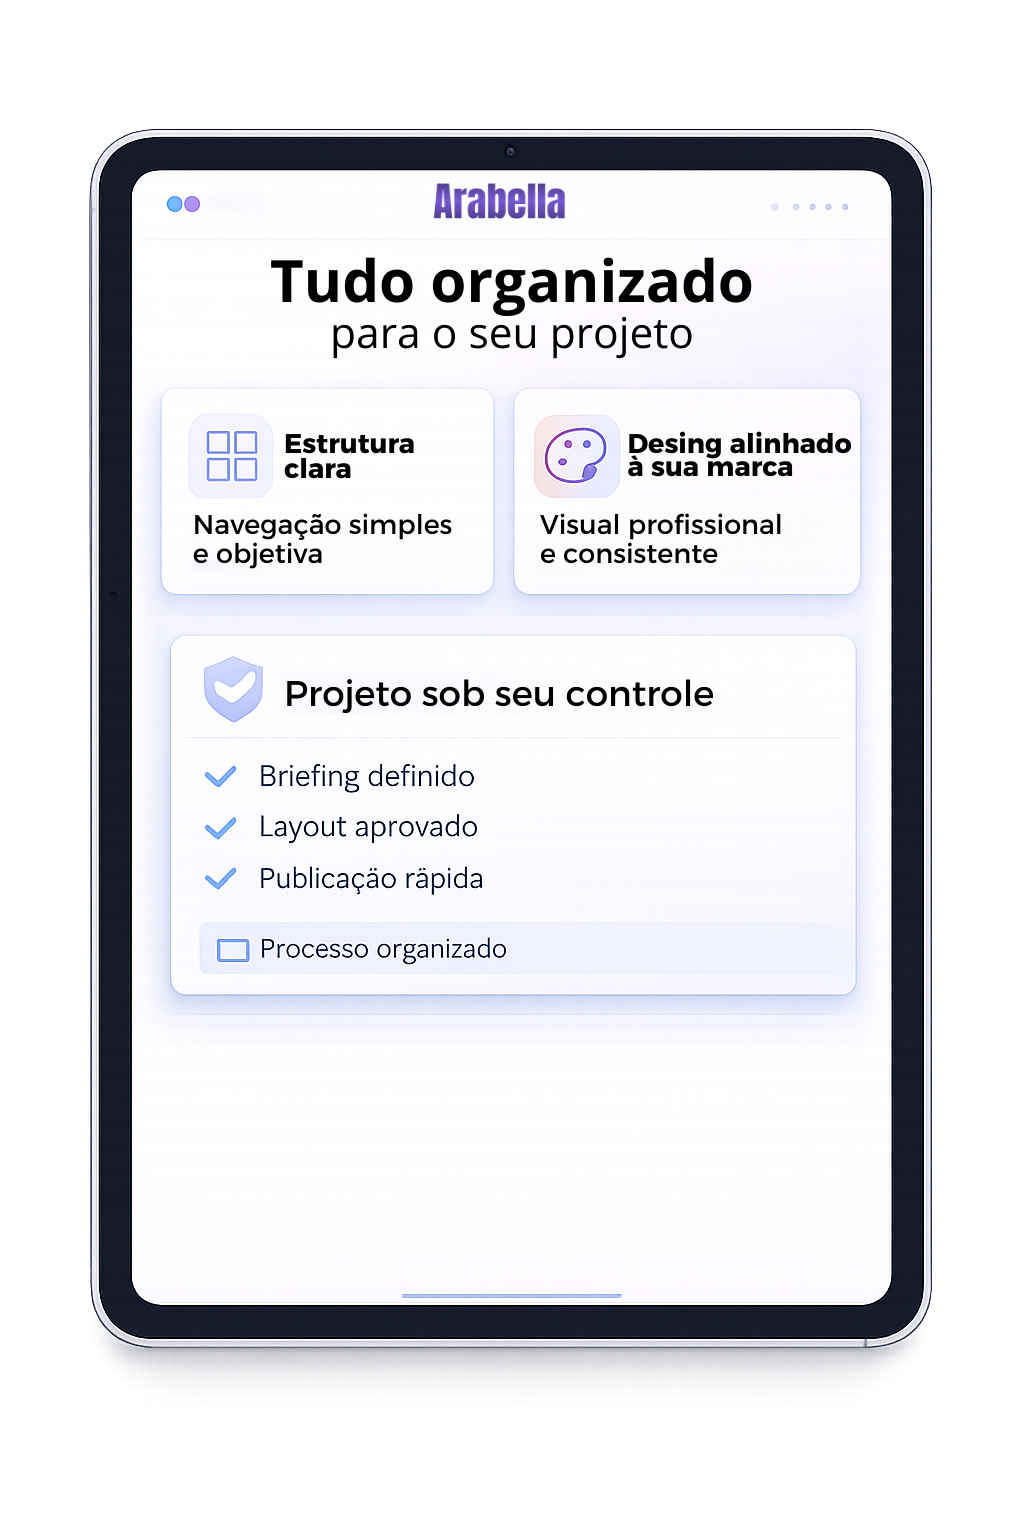
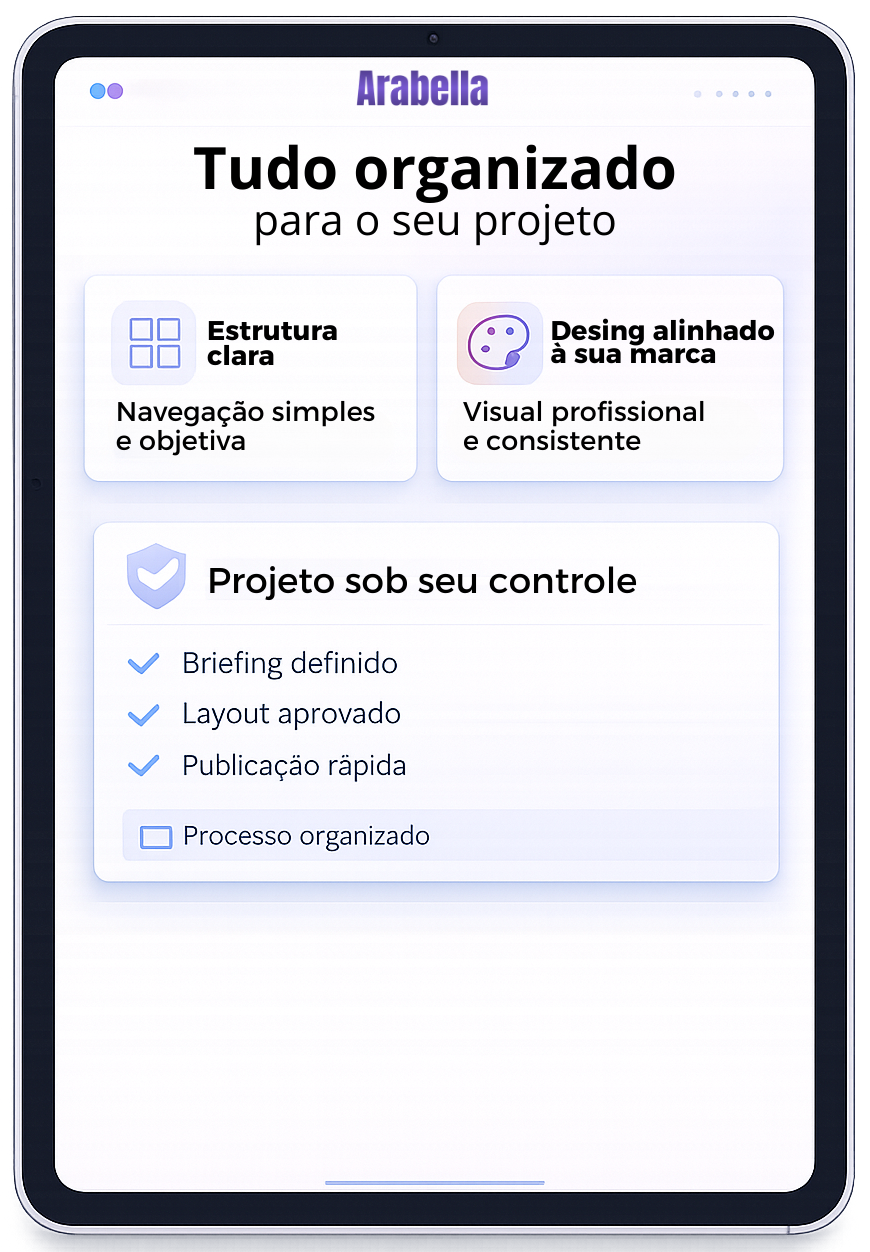
a

diff --git a/arabella/src/components/sections/ResponsiveEverywhereSection.tsx b/arabella/src/components/sections/ResponsiveEverywhereSection.tsx
@@ -78,7 +78,7 @@ const ResponsiveEverywhereSection = () => {
               whileInView={{ opacity: 1, x: 0 }}
               transition={{ duration: 0.8, delay: 0.2, ease: "easeOut" }}
               viewport={{ once: true }}
-              className="absolute right-0 top-6 z-20 w-[42%] sm:right-4 sm:w-[38%]"
+              className="absolute right-0 top-6 z-20 w-[42%] sm:right-4 sm:w-[35%]"
             >
               <img
                 src="/imagens/dispositivos/Tablet.png"
@@ -95,7 +95,7 @@ const ResponsiveEverywhereSection = () => {
                whileInView={{ opacity: 1, y: 0 }}
                transition={{ duration: 0.8, delay: 0.4, ease: "easeOut" }}
                viewport={{ once: true }}
-              className="absolute bottom-4 left-0 z-30 w-[28%] sm:w-[34%]"
+              className="absolute bottom-4 left-0 z-30 w-[29%] sm:w-[20%]"
             >
               <img
                 src="/imagens/dispositivos/celular.png"
